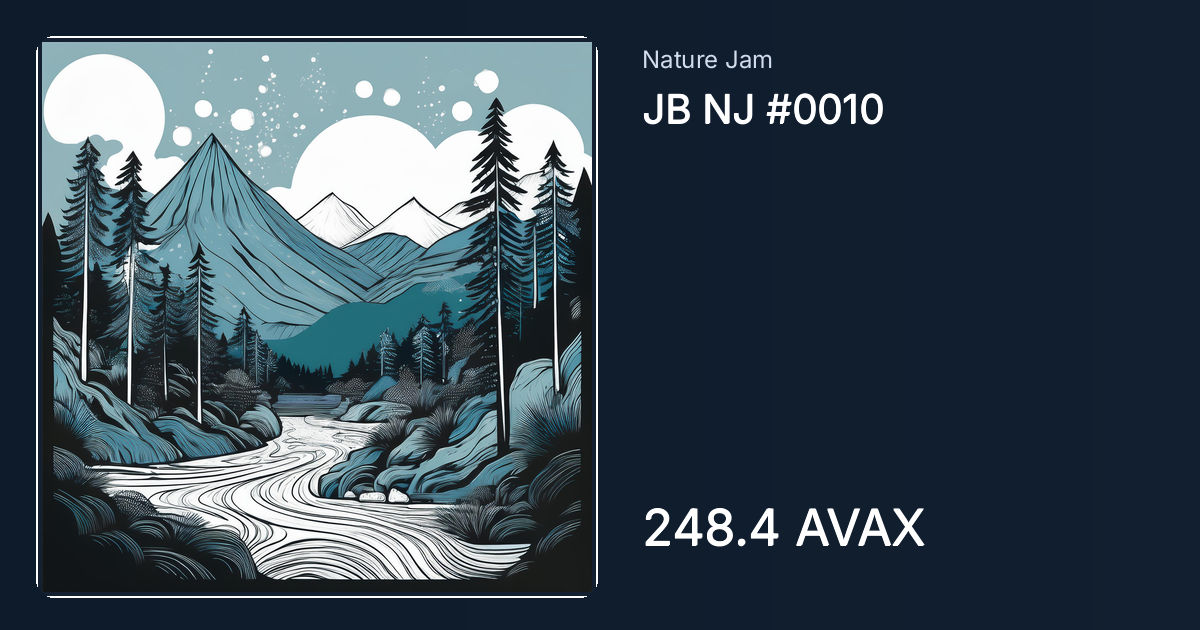
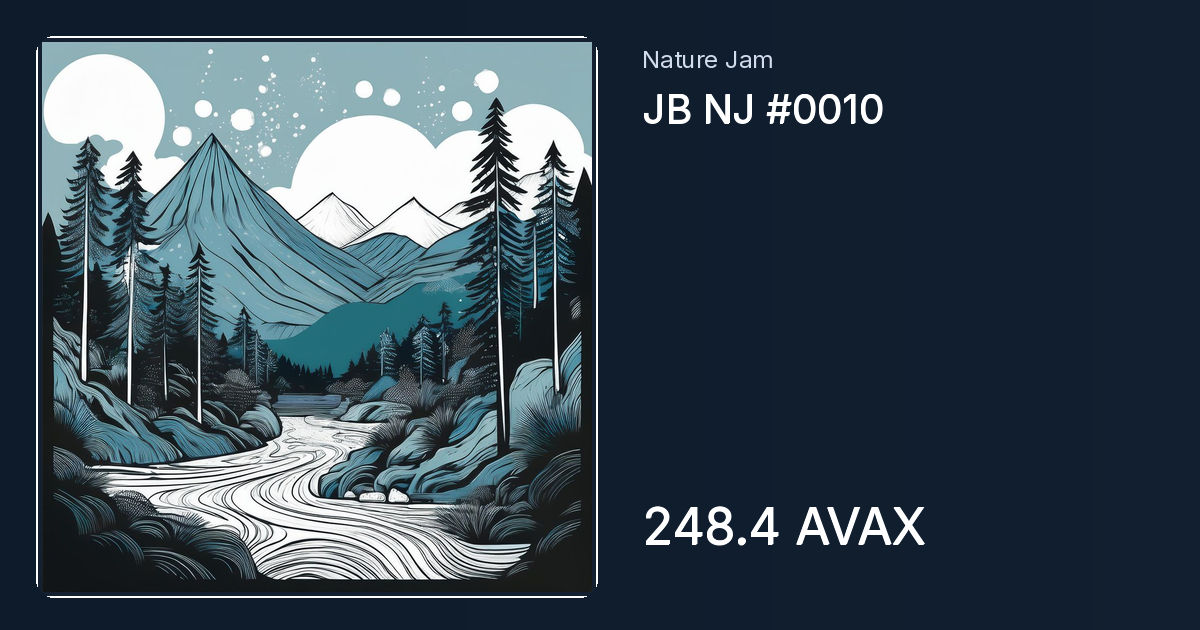
OG landings avalanche_nature_stories

diff --git a/nft/avalanche-nature-stories/10.html b/nft/avalanche-nature-stories/10.html
@@ -3,20 +3,20 @@
 <head>
     <meta charset="UTF-8">
     <meta name="viewport" content="width=device-width, initial-scale=1.0">
-    <meta name="description" content="3.594 AVAX · Nature Stories — Listed">
+    <meta name="description" content="0.03077 AVAX · Nature Stories — Listed">
     <title>NS #10 | Jack Beatnic Gallery</title>
     <meta property="og:type" content="website">
     <meta property="og:url" content="https://jackbeatnic.github.io/nft/avalanche-nature-stories/10.html">
     <meta property="og:title" content="NS #10 | Jack Beatnic Gallery">
-    <meta property="og:description" content="3.594 AVAX · Nature Stories — Listed">
-    <meta property="og:image" content="https://jackbeatnic.github.io/assets/og/avalanche-nature-stories-10.jpg?v=202609190040">
+    <meta property="og:description" content="0.03077 AVAX · Nature Stories — Listed">
+    <meta property="og:image" content="https://jackbeatnic.github.io/assets/og/avalanche-nature-stories-10.jpg?v=202609211556">
     <meta property="og:image:width" content="1200">
     <meta property="og:image:height" content="630">
     <meta name="twitter:card" content="summary_large_image">
     <meta name="twitter:site" content="@JackBeatnicAI">
     <meta name="twitter:title" content="NS #10 | Jack Beatnic Gallery">
-    <meta name="twitter:description" content="3.594 AVAX · Nature Stories — Listed">
-    <meta name="twitter:image" content="https://jackbeatnic.github.io/assets/og/avalanche-nature-stories-10.jpg?v=202609190040">
+    <meta name="twitter:description" content="0.03077 AVAX · Nature Stories — Listed">
+    <meta name="twitter:image" content="https://jackbeatnic.github.io/assets/og/avalanche-nature-stories-10.jpg?v=202609211556">
     <meta name="twitter:image:alt" content="NS #10 | Jack Beatnic Gallery">
     <link rel="canonical" href="https://jackbeatnic.github.io/nft/avalanche-nature-stories/10.html">
     <script>location.replace("https://jackbeatnic.github.io/?work=10&collection=avalanche_nature_stories&section=ai_art&ai=evm&edition=avalanche");</script>

diff --git a/nft/sui-nature-stories-tradeport/10.html b/nft/sui-nature-stories-tradeport/10.html
@@ -9,14 +9,14 @@
     <meta property="og:url" content="https://jackbeatnic.github.io/nft/sui-nature-stories-tradeport/10.html">
     <meta property="og:title" content="NS #10 S | Jack Beatnic Gallery">
     <meta property="og:description" content="Sui · Nature Stories SE — Mint">
-    <meta property="og:image" content="https://jackbeatnic.github.io/assets/og/sui-nature-stories-tradeport-10.jpg?v=202609190040">
+    <meta property="og:image" content="https://jackbeatnic.github.io/assets/og/sui-nature-stories-tradeport-10.jpg?v=202609211556">
     <meta property="og:image:width" content="1200">
     <meta property="og:image:height" content="630">
     <meta name="twitter:card" content="summary_large_image">
     <meta name="twitter:site" content="@JackBeatnicAI">
     <meta name="twitter:title" content="NS #10 S | Jack Beatnic Gallery">
     <meta name="twitter:description" content="Sui · Nature Stories SE — Mint">
-    <meta name="twitter:image" content="https://jackbeatnic.github.io/assets/og/sui-nature-stories-tradeport-10.jpg?v=202609190040">
+    <meta name="twitter:image" content="https://jackbeatnic.github.io/assets/og/sui-nature-stories-tradeport-10.jpg?v=202609211556">
     <meta name="twitter:image:alt" content="NS #10 S | Jack Beatnic Gallery">
     <link rel="canonical" href="https://jackbeatnic.github.io/nft/sui-nature-stories-tradeport/10.html">
     <script>location.replace("https://jackbeatnic.github.io/?work=10&collection=sui_nature_stories_tradeport&section=ai_art&ai=sui");</script>

diff --git a/nft/avalanche-nature-jam/10.html b/nft/avalanche-nature-jam/10.html
@@ -9,14 +9,14 @@
     <meta property="og:url" content="https://jackbeatnic.github.io/nft/avalanche-nature-jam/10.html">
     <meta property="og:title" content="JB NJ #0010 | Jack Beatnic Gallery">
     <meta property="og:description" content="248.4 AVAX · Nature Jam — Listed">
-    <meta property="og:image" content="https://jackbeatnic.github.io/assets/og/avalanche-nature-jam-10.jpg?v=202609190040">
+    <meta property="og:image" content="https://jackbeatnic.github.io/assets/og/avalanche-nature-jam-10.jpg?v=202609211556">
     <meta property="og:image:width" content="1200">
     <meta property="og:image:height" content="630">
     <meta name="twitter:card" content="summary_large_image">
     <meta name="twitter:site" content="@JackBeatnicAI">
     <meta name="twitter:title" content="JB NJ #0010 | Jack Beatnic Gallery">
     <meta name="twitter:description" content="248.4 AVAX · Nature Jam — Listed">
-    <meta name="twitter:image" content="https://jackbeatnic.github.io/assets/og/avalanche-nature-jam-10.jpg?v=202609190040">
+    <meta name="twitter:image" content="https://jackbeatnic.github.io/assets/og/avalanche-nature-jam-10.jpg?v=202609211556">
     <meta name="twitter:image:alt" content="JB NJ #0010 | Jack Beatnic Gallery">
     <link rel="canonical" href="https://jackbeatnic.github.io/nft/avalanche-nature-jam/10.html">
     <script>location.replace("https://jackbeatnic.github.io/?work=10&collection=avalanche_nature_jam&section=ai_art&ai=evm&series=nature_jam&edition=avalanche");</script>

diff --git a/nft/xrpl-jb-ai-nature/10.html b/nft/xrpl-jb-ai-nature/10.html
@@ -9,14 +9,14 @@
     <meta property="og:url" content="https://jackbeatnic.github.io/nft/xrpl-jb-ai-nature/10.html">
     <meta property="og:title" content="JBN #10 X | Jack Beatnic Gallery">
     <meta property="og:description" content="0.1 XRP · Jack Beatnic — Mint">
-    <meta property="og:image" content="https://jackbeatnic.github.io/assets/og/xrpl-jb-ai-nature-10.jpg?v=202609190040">
+    <meta property="og:image" content="https://jackbeatnic.github.io/assets/og/xrpl-jb-ai-nature-10.jpg?v=202609211556">
     <meta property="og:image:width" content="1200">
     <meta property="og:image:height" content="630">
     <meta name="twitter:card" content="summary_large_image">
     <meta name="twitter:site" content="@JackBeatnicAI">
     <meta name="twitter:title" content="JBN #10 X | Jack Beatnic Gallery">
     <meta name="twitter:description" content="0.1 XRP · Jack Beatnic — Mint">
-    <meta name="twitter:image" content="https://jackbeatnic.github.io/assets/og/xrpl-jb-ai-nature-10.jpg?v=202609190040">
+    <meta name="twitter:image" content="https://jackbeatnic.github.io/assets/og/xrpl-jb-ai-nature-10.jpg?v=202609211556">
     <meta name="twitter:image:alt" content="JBN #10 X | Jack Beatnic Gallery">
     <link rel="canonical" href="https://jackbeatnic.github.io/nft/xrpl-jb-ai-nature/10.html">
     <script>location.replace("https://jackbeatnic.github.io/?work=10&collection=xrpl_jb_ai_nature&section=ai_art&ai=xrpl");</script>
